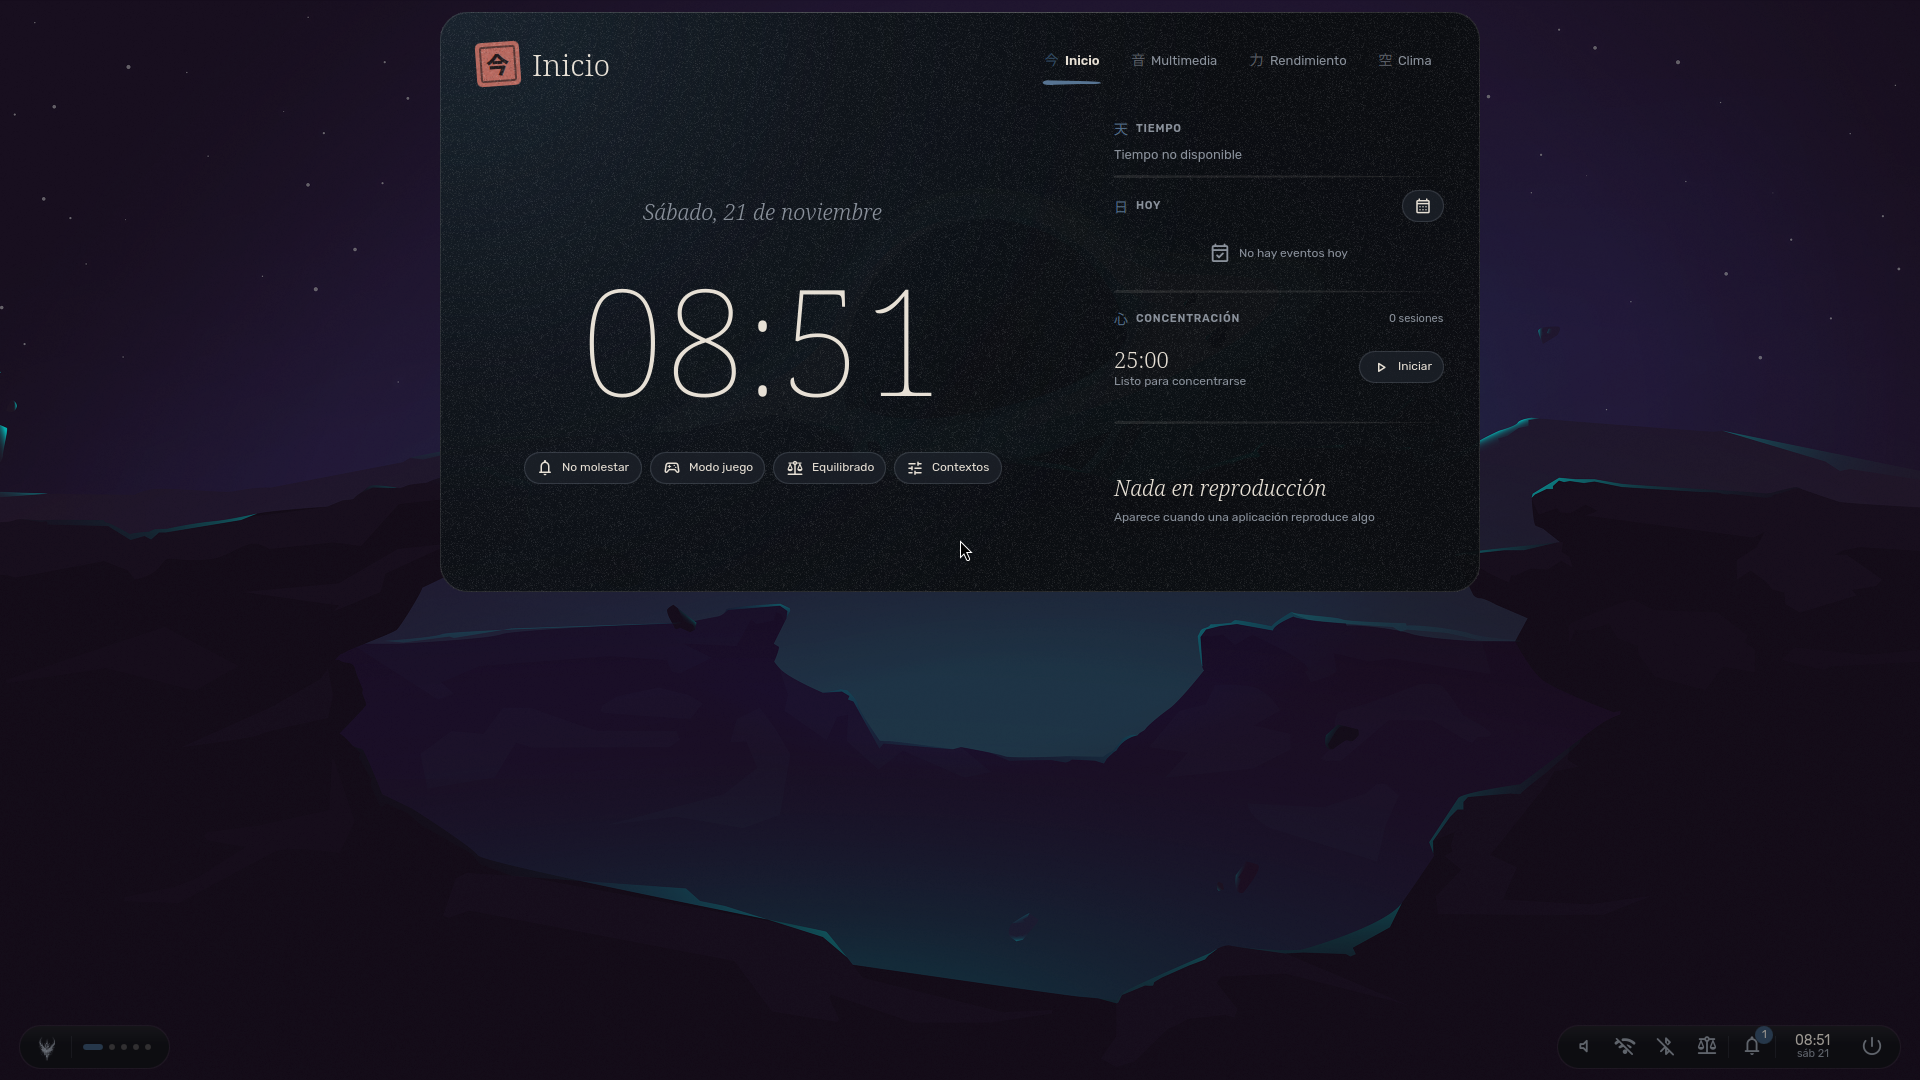
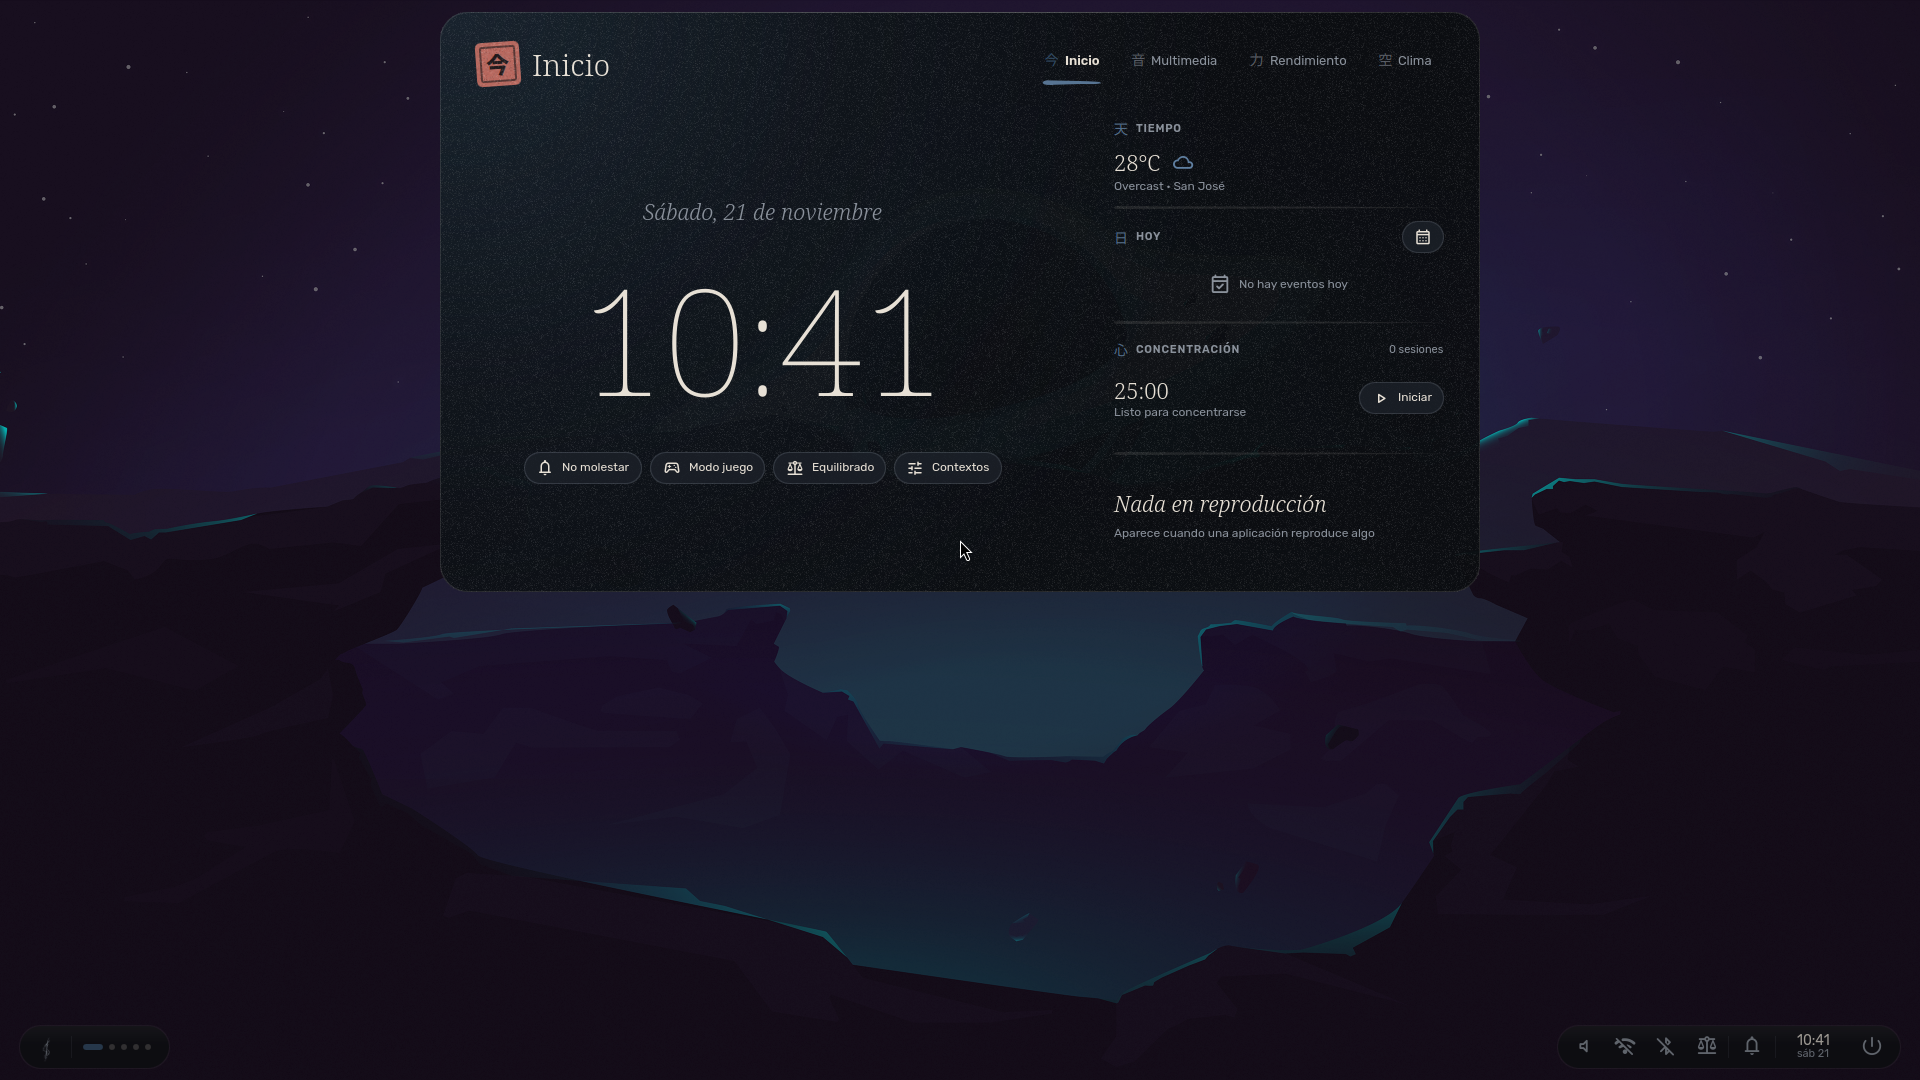
feat(hub): signal and charge beside their glyphs, as in the Premium sobria Hub
On a horizontal Hub the status island reads the Wi-Fi signal and the
battery charge in percent next to their icons (concept 04). The readings
are part of the island's pointer area and open the same popout; none on
a lateral Hub, where there is no width. Ajustes -> Hub -> Indicadores de
estado can turn them off (bottomHub.statusCluster.showValues, default on).
The hub controls runtime check covers the readings against UPower and
NetworkManager, the lateral Hub and the setting.

Realm captures of the other surfaces (session, overview, hardware,
calendar, clipboard, wallpaper, display, keyboards, cheatsheet) in
docs/evidence/premium-sobria-20261121/before.

diff --git a/cortetsu/modules/CortetsuStatusSegment.qml b/cortetsu/modules/CortetsuStatusSegment.qml
@@ -52,6 +52,11 @@ Item {
     property alias notificationCountBadge: countBadge
 
     property bool vertical: false
+    // Signal and charge beside their glyphs, where the Hub has the width.
+    readonly property bool showValues: !vertical && CortetsuConfig.bottomHub.statusCluster.showValues
+    readonly property string networkValue: CortetsuNetwork.active ? `${Math.round(CortetsuNetwork.active.strength ?? 0)}%` : ""
+    readonly property string batteryValue: CortetsuPower.hasBattery ? `${CortetsuPower.percent}%` : ""
+
     property string tooltipPlacement: "above"
     readonly property real thickness: Math.max(46, CortetsuDesign.rowHeight - 2)
 
@@ -147,6 +152,26 @@ Item {
                     root.attachedControlRequested("network", root.centerFor(networkButton))
             }
 
+            // The reading, part of the button's hit area: a press opens the
+            // same popout.
+            CortetsuText {
+                objectName: "hubNetworkValue"
+                visible: root.showValues && root.networkValue.length > 0 && networkButton.visible
+                height: 40
+                verticalAlignment: Text.AlignVCenter
+                rightPadding: 6
+                text: root.networkValue
+                color: CortetsuDesign.colorMuted
+                textSize: CortetsuTypography.labelMediumPx
+                font.features: { "tnum": 1 }
+                MouseArea {
+                    anchors.fill: parent
+                    cursorShape: Qt.PointingHandCursor
+                    onClicked: if (root.statusPopoutsEnabled)
+                        root.attachedControlRequested("network", root.centerFor(networkButton))
+                }
+            }
+
             HubButton {
                 id: bluetoothButton
                 visible: root.bluetoothVisible
@@ -183,6 +208,26 @@ Item {
                 }
                 onClicked: if (root.statusPopoutsEnabled)
                     root.attachedControlRequested("battery", root.centerFor(batteryButton))
+            }
+
+            // The reading, part of the button's hit area: a press opens the
+            // same popout.
+            CortetsuText {
+                objectName: "hubBatteryValue"
+                visible: root.showValues && root.batteryValue.length > 0 && batteryButton.visible
+                height: 40
+                verticalAlignment: Text.AlignVCenter
+                rightPadding: 6
+                text: root.batteryValue
+                color: CortetsuDesign.colorMuted
+                textSize: CortetsuTypography.labelMediumPx
+                font.features: { "tnum": 1 }
+                MouseArea {
+                    anchors.fill: parent
+                    cursorShape: Qt.PointingHandCursor
+                    onClicked: if (root.statusPopoutsEnabled)
+                        root.attachedControlRequested("battery", root.centerFor(batteryButton))
+                }
             }
         }
 

diff --git a/cortetsu/modules/CortetsuConfig.qml b/cortetsu/modules/CortetsuConfig.qml
@@ -107,6 +107,10 @@ QtObject {
             onBatteryChanged: if (root.loaded) root.save()
             property bool showNotificationCount: true
             onShowNotificationCountChanged: if (root.loaded) root.save()
+            // The reading beside the network and battery glyphs (signal and
+            // charge, in percent) on a horizontal Hub.
+            property bool showValues: true
+            onShowValuesChanged: if (root.loaded) root.save()
         }
     }
     property list<var> quickToggles: [
@@ -540,6 +544,8 @@ QtObject {
                             bottomHub.statusCluster[key] = data.bottomHub.statusCluster[key];
                 if (typeof data.bottomHub.statusCluster?.showNotificationCount === "boolean")
                     bottomHub.statusCluster.showNotificationCount = data.bottomHub.statusCluster.showNotificationCount;
+                if (typeof data.bottomHub.statusCluster?.showValues === "boolean")
+                    bottomHub.statusCluster.showValues = data.bottomHub.statusCluster.showValues;
             }
             if (Array.isArray(data.quickToggles))
                 quickToggles = data.quickToggles.filter(value => value && typeof value === "object" && typeof value.id === "string").map(value => ({ id: value.id, enabled: value.enabled !== false }));
@@ -861,7 +867,7 @@ QtObject {
                 order: bottomHub.order,
                 mirrored: bottomHub.mirrored,
                 segments: { mode: bottomHub.segments.mode, apps: bottomHub.segments.apps, tray: bottomHub.segments.tray, status: bottomHub.segments.status },
-                statusCluster: { audio: bottomHub.statusCluster.audio, network: bottomHub.statusCluster.network, bluetooth: bottomHub.statusCluster.bluetooth, battery: bottomHub.statusCluster.battery, showNotificationCount: bottomHub.statusCluster.showNotificationCount }
+                statusCluster: { audio: bottomHub.statusCluster.audio, network: bottomHub.statusCluster.network, bluetooth: bottomHub.statusCluster.bluetooth, battery: bottomHub.statusCluster.battery, showNotificationCount: bottomHub.statusCluster.showNotificationCount, showValues: bottomHub.statusCluster.showValues }
             },
             displayCalibration: { enabled: colorCalibrationEnabled, temperature: colorTemperature, gamma: colorGamma,
                 schedule: { enabled: nightLightSchedule, from: nightLightFrom, to: nightLightTo } } });

diff --git a/cortetsu/modules/settings/sections/BottomHubSection.qml b/cortetsu/modules/settings/sections/BottomHubSection.qml
@@ -198,6 +198,14 @@ SettingsColumns {
             }
 
             SettingToggleRow {
+                objectName: "statusValues"
+                title: qsTr("Mostrar señal y batería")
+                detail: qsTr("El porcentaje junto a los iconos de red y batería, con el Hub arriba o abajo")
+                checked: CortetsuConfig.bottomHub.statusCluster.showValues
+                onToggled: value => { CortetsuConfig.bottomHub.statusCluster.showValues = value; CortetsuConfig.save(); }
+            }
+
+            SettingToggleRow {
                 title: qsTr("Audio")
                 checked: CortetsuConfig.bottomHub.statusCluster.audio
                 onToggled: value => { CortetsuConfig.bottomHub.statusCluster.audio = value; CortetsuConfig.save(); }

diff --git a/scripts/features/test-cortetsu-hub-controls-runtime.py b/scripts/features/test-cortetsu-hub-controls-runtime.py
@@ -23,6 +23,7 @@ import Quickshell
 import "modules"
 import "modules/bar/popouts" as Pop
 import "theme"
+import "services"
 
 ShellRoot {
     id: root
@@ -80,6 +81,22 @@ ShellRoot {
                 verify(t && t.parent.width >= t.implicitWidth + 4, `9+ fits: badge ${t?.parent.width}, text ${t?.implicitWidth}`);
                 verify(!find(segment, c => c.activeFocus === true && c.label !== undefined), "no status item takes focus by loading");
                 grab(segment, "segment-9plus"); return true; },
+        // Signal and charge beside their glyphs, from the real services;
+        // none on a lateral Hub or with the setting off.
+        () => { const value = find(segment, c => c.objectName === "hubBatteryValue");
+                verify(value && value.visible === CortetsuPower.hasBattery && (!value.visible || value.text === `${CortetsuPower.percent}%`),
+                    `the battery reading follows UPower (${value?.visible} ${value?.text})`);
+                const net = find(segment, c => c.objectName === "hubNetworkValue");
+                verify(net && net.visible === !!CortetsuNetwork.active, `the signal reading follows the active network (${net?.visible})`);
+                grab(segment, "segment-values"); return true; },
+        () => true,
+        () => true,
+        () => { segment.vertical = true; return true; },
+        () => { verify(!find(segment, c => c.objectName === "hubBatteryValue").visible, "a lateral Hub has no readings");
+                segment.vertical = false;
+                CortetsuConfig.bottomHub.statusCluster.showValues = false; return true; },
+        () => { verify(!find(segment, c => c.objectName === "hubBatteryValue").visible, "the setting turns them off");
+                CortetsuConfig.bottomHub.statusCluster.showValues = true; return true; },
         () => { const field = find(wifi, c => c.echoMode === TextInput.Password);
                 verify(field !== null, "password field found");
                 field.forceActiveFocus(); return field.activeFocus; },
@@ -122,7 +139,7 @@ with tempfile.TemporaryDirectory(prefix="cortetsu-hub-") as temporary:
     result = subprocess.run(["quickshell", "-p", str(folder / "shell.qml")], env=env,
                             capture_output=True, text=True, timeout=90)
     output = result.stdout + result.stderr
-    assert "HUB_RUNTIME_PASS 9" in output, output
+    assert "HUB_RUNTIME_PASS 13" in output, output
     for marker in ("HUB_FAIL", "TypeError", "ReferenceError", "Binding loop", "is not a type"):
         assert marker not in output, output
 
